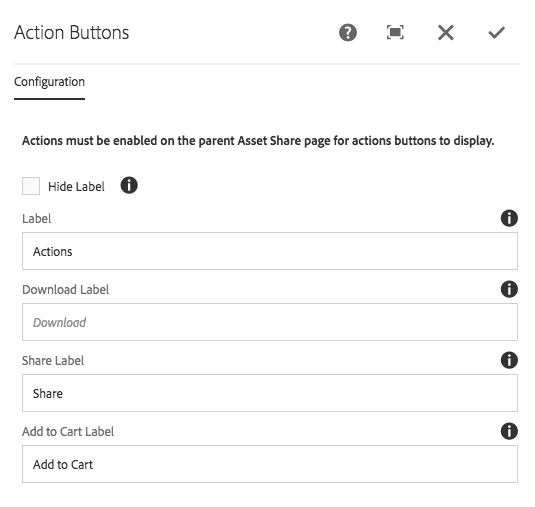
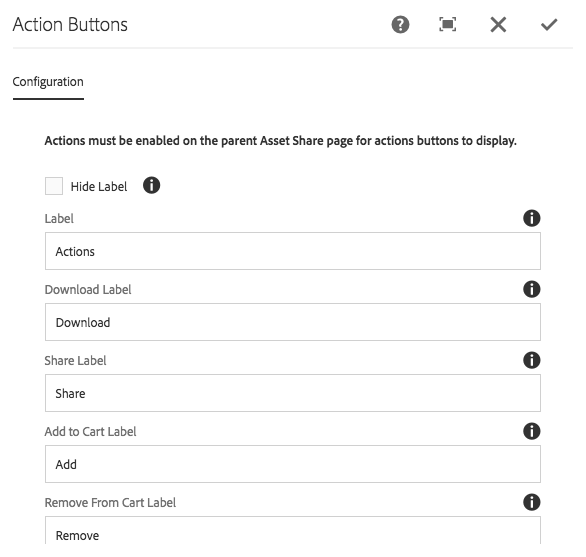
v1.1.0 release

diff --git a/_includes/sidebar.html b/_includes/sidebar.html
@@ -68,6 +68,7 @@
                 <li>
                     <span class="opener">Development</span>
                     <ul>
+                        <li><a href="{{ site.baseurl }}/apidocs/index.html" target="_blank">API Java Docs</a></li>
                         <li><a href="{{ site.baseurl }}/pages/development/guide/">Development Guide</a></li>
                         <li><a href="{{ site.baseurl }}/pages/development/theming/">Theming</a></li>
                         <li><a href="{{ site.baseurl }}/pages/development/computed-properties/">Computed Properties</a></li>
@@ -86,8 +87,10 @@
             <article>
                 <p>Download the latest release from GitHub.</p>
             </article>
+
             <ul class="actions">
-                <li><a href="https://github.com/Adobe-Marketing-Cloud/asset-share-commons/releases" target="_blank" class="button">Download</a></li>
+                <li style="margin-bottom: 1rem;"><a href="https://github.com/Adobe-Marketing-Cloud/asset-share-commons/releases" target="_blank" class="button">Download the latest Release</a></li>
+                <li><a href="{{ site.baseurl }}/pages/releases" class="button">Learn about the latest Release</a></li>
             </ul>
         </section>
 
@@ -104,8 +107,7 @@
                 <li class="fa-github"><a href="https://github.com/Adobe-Marketing-Cloud/asset-share-commons" target="_blank">github.com/Adobe-Marketing-Cloud/asset-share-commons</a></li>
                 <li class="fa-bug"><a href="https://github.com/Adobe-Marketing-Cloud/asset-share-commons/pulls" target="_blank">Report issues</a></li>
                 <li class="fa-pencil"><a href="{{ site.baseurl }}/pages/contribute/">Learn how to contribute</a></li>
-                <li class="fa-rocket"><a href="{{ site.baseurl }}/pages/contribute/release">Learn about the release process</a></li>
-				
+                <li class="fa-rocket"><a href="{{ site.baseurl }}/pages/releases/process">Learn about the release process</a></li>
             </ul>
         </section>
 

diff --git a/_includes/releases.html b/_includes/releases.html
@@ -1,0 +1,12 @@
+<ul>
+        {% assign sorted = (site.pages | sort: 'title' | reverse ) %}
+        {% assign currentPagePath = page.path | remove: "index.md" %}
+        {% for subpage in sorted %}
+
+        {% capture isReleasePage %}{% if (subpage.path contains '/releases/v') %}true{% else %}false{% endif %}{% endcapture %}
+
+        {% if isReleasePage == 'true' %}
+            <li><a href="{{ site.baseurl }}{{ subpage.url }}">{{ subpage.title }}</a></li>
+        {% endif %}
+        {% endfor %}
+</ul>

diff --git a/_pages/releases/process/index.md b/_pages/releases/process/index.md
@@ -8,23 +8,25 @@ title: Release Process
 1. On the `/develop`, verify the `CHANGELOG.md` is prepared for release ([Unrelease] -> [vX.X.X])
 2. Create a Pull Request from `/develop` -> `/master` with title `vX.X.X Release`
 3. Ensure all checks pass (CodeClimate and TravisCI)
-2. Squash and Merge `/develop` -> `/master`
+2. Keep all commits (do NOT Squash and Merge) when merging `/develop` -> `/master`
 4. Checkout `/master` to your local machine; ensure it is up-to-date with `origin/master`
 5. In the same folder as the reactor pom, execute the command:
 	* `mvn -Pbintray-asset-share-commons release:prepare`
 	* Set the release tag as: `asset-share-commons-X.X.X`
-6. When complete, copy to a safe place (will be used in Step 10)
-	* `asset-share-commons.ui.apps-X.X.X`
-	* `asset-share-commons.ui.content-X.X.X`
-7. In the same folder as the reactor pom, execute the command:
+6. When complete, copy the resulting AEM packages from the `ui.apps` and `ui.content` target folders to a safe place (will be used in Step 10)
+	* `asset-share-commons.ui.apps-X.X.X.zip`
+	* `asset-share-commons.ui.content-X.X.X.zip`
+7. Also copy the generated `apidocs` folder from the `ui.core` project's target/site to a safe place.
+8. In the same folder as the reactor pom, execute the command:
 	* `mvn -Pbintray-asset-share-commons release:perform`
-8. [Publish the 14 artifacts on bintray.com](https://bintray.com/asc/releases/asset-share-commons)
-9. Context the Adobe context, and request an artifact deployment to repo.adobe.com (with key INFRA-5605)
-10. [Create a release on GitHub](https://github.com/Adobe-Marketing-Cloud/asset-share-commons/releases) for `asset-share-commons-X.X.X`
+9. [Publish the 15 artifacts on bintray.com](https://bintray.com/asc/releases/asset-share-commons)
+10. Context the Adobe context, and request an artifact deployment to repo.adobe.com (with key INFRA-5605)
+11. [Create a release on GitHub](https://github.com/Adobe-Marketing-Cloud/asset-share-commons/releases) for `asset-share-commons-X.X.X`
 	* Upload the 2 artifacts from step 6 to the release.
 	* Link to the changelog in the description for the matching release tag commit.
 		* https://github.com/Adobe-Marketing-Cloud/asset-share-commons/blob/asset-share-commons-X.X.X/CHANGELOG.md
-11. Merge `/master` back into `/develop` to update the the pom versions.
-12. [Close the GitHub milestone](https://github.com/Adobe-Marketing-Cloud/asset-share-commons/milestones) `X.X.X` and create the next Milestone.
+12. Merge (do NOT squash and merge) `/master` back into `/develop` to update the the pom versions.
+13. [Close the GitHub milestone](https://github.com/Adobe-Marketing-Cloud/asset-share-commons/milestones) `X.X.X` and create the next Milestone.
+14. Copy the `apidocs` from step 7 into the Asset Share Commons GitHub pages site (asset-share-commons/gh-pages branch) at `/apidocs`.
 
 > It may take several days for the artifacts to be promoted to [repo.adobe.com](https://repo.adobe.com/nexus/content/groups/public/com/adobe/aem/commons/assetshare/), however the artifacts are immediately available on [bintray.com > Set Up](https://bintray.com/asc/releases/asset-share-commons).

diff --git a/_pages/releases/v1-1-0/index.md b/_pages/releases/v1-1-0/index.md
@@ -1,0 +1,46 @@
+---
+layout: content-page
+title: v1.1.0
+---
+
+## v1.1.0 release notes
+
+### Fixed
+- 0074: Removed unused configurations (originally added for release purposes) from ui.content pom.xml
+- 0080: Handle the numbering of predicate search components after insert, and made group numbering mode logical.
+- 0086: Moved ACS AEM Commons E-mail Service dependency into the Asset Share Commons project to reduce the service resolution issues as reported by #86. This now removes the dependency on ACS AEM Commons.
+- 0096: Corrected wording on Share Action checkbox to reflect new behavior. Only generate groupIds for "ready" components.
+
+### Added
+- 0070: Added button to 'Remove from Cart' once an asset has been added
+- 0090: Added asset-share-commons.cart.clear JavaScript event when cart is cleared
+
+
+## Important upgrade considerations
+
+### Add and remove from cart
+
+v1.1.0 brings the ability to remove assets from the cart from either the Search Results or from the Action Buttons component on the Asset Details page.
+
+To align to this pattern, you must:
+
+* Open any/all Search Page Page Properties, and set the `Removed from Cart` message, and message style.
+* Edit any Action Buttons components on Asset Details pages, and provide labels for `Add to Cart` as well as `Remove from Cart`.
+
+### E-mail share functionality
+
+Due to OSGi Service resolution issues of the ACS AEM Commons E-mail Service, a copy of the ACS AEM Commons E-mail Service has been copied into Asset Share Commons.
+
+Because of this, Asset Share Commons is no longer dependent on ACS AEM Commons. 
+
+### Search page predicate group ids
+
+v1.1.0 enhances how the Predicate Group Id's are generated. This may change the QueryBuilder group id's of existing search page URLs. 
+
+Starting in v1.1.0 is recommended that any custom search predicate components that require the submission of a QueryBuilder group id, set the following property on the `cq:Component` node.
+
+```
+[cq:Component]@genereatePredicateId="true"
+```
+
+If this is not set the group id for this component will start at 10000 (which will work, but looks odd).

diff --git a/_pages/releases/v1-0-2/index.md b/_pages/releases/v1-0-2/index.md
@@ -1,0 +1,24 @@
+---
+layout: content-page
+title: v1.0.2
+---
+
+## v1.0.2 release notes
+
+Bug-fix release.
+
+### Changed
+
+- 0016: Changed ui.content/pom.xml to remove the core dependency, distribution config, and jslint plug-in.  
+- 0011: Added skip deploy directive to ui.content pom.xml (as the ui.content artifact does not get deployed to bintray)
+- 0012: Updated AEM package file names to be: 'asset-share-commons.ui.apps-<version>' and 'asset-share-commons.ui.content-<version>'.
+- 0016: Changed ui.content/pom.xml to remove the core dependency, distribution config, and jslint plug-in.  
+- 0018: Updated components to leverage the ASC modelCache for models: Config, AssetModel and PagePredicate. Added HTL Maven Plugin to prevent typos in the HTL.
+- 0021: Reduced file sizes of image in ui.content project.
+- 0027: XSS Protect user input for Share emails in EmailShareServiceImpl.java
+
+### Fixed
+
+- 0029: Resolve issue with WARN in logs over missing ACS Commons EmailService dependency. 
+- 0053: Fixed issue with broken log in and log out links
+- 0056: Updated pom.xml to include ui.content as a module. Updated ui.content/pom.xml so only gets built with profile of 'autoInstallPackage-all' and 'autoInstallPackagePublish-all'

diff --git a/_pages/releases/index.md b/_pages/releases/index.md
@@ -1,0 +1,13 @@
+---
+layout: content-page
+title: Releases
+---
+
+Asset Share Commons keeps a changelog of significant changes to the project, by version:
+
+<a href="https://github.com/Adobe-Marketing-Cloud/asset-share-commons/blob/develop/CHANGELOG.md" class="button">View the changelog</a>
+
+Each release of Asset Share Commons with any considerations of note are listed below. When upgrading Asset Share Commons, you are encouraged to reach all the release notes from the version that is being upgraded *from* through the version being upgrades *to*.
+
+{% include releases.html %}
+

diff --git a/_pages/details/action-buttons/index.md b/_pages/details/action-buttons/index.md
@@ -45,11 +45,18 @@ The button label for the share action button.
 
   * If left blank, this button does not display.
 
-#### Cart Label
+#### Add to Cart Label (v1.1.0)
 
 The button label for the add to cart action button.
 
-  * If left blank, this button does not display.
+  * If left blank, the cart action button does not display.
+
+#### Remove from Cart Label (v1.1.0)
+
+The button label for the remove from cart action button.
+
+  * If left blank, the cart action button does not display.
+
 
 ## Technical details
 

diff --git a/_pages/search/search-page/index.md b/_pages/search/search-page/index.md
@@ -107,7 +107,7 @@ Select to enable Cart functionality. When disabled, "Add to cart" buttons will n
 Message configurations are used to define the style and text of message (or notifications). Currently there are only 2 types of messsages:
 
   * Asset Added to Cart
-  * Assets Already Exists in Cart
+  * Remove Asset from Cart
 
 Each message can have configured attributes:
 

diff --git a/_pages/releases/v1-0-0/index.md b/_pages/releases/v1-0-0/index.md
@@ -1,0 +1,8 @@
+---
+layout: content-page
+title: v1.0.0
+---
+
+## v1.0.0 release notes
+
+v1.0.0 was the first release.
